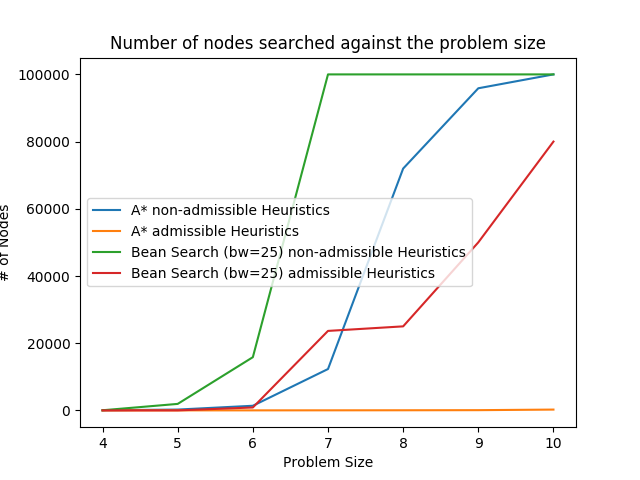
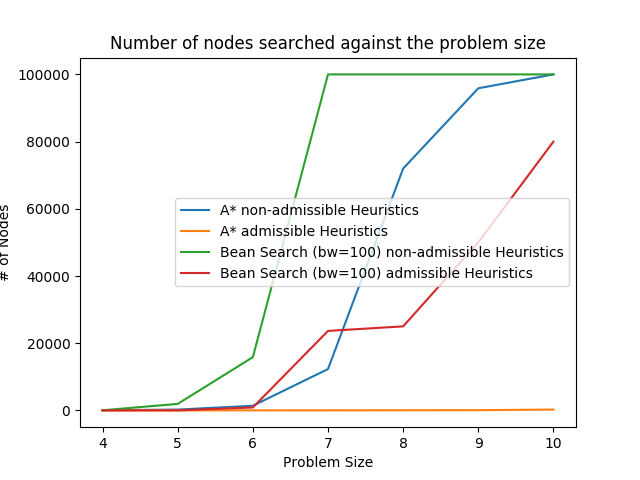
modify cpu plots

Changed region(s): [[0.125, 0.4062, 0.875, 0.5938], [0.7812, 0.4062, 0.8125, 0.4375]]

diff --git a/analysis.py b/analysis.py
@@ -40,8 +40,8 @@ def plotResult(cpuTimes, steps, pathes):
     plt.plot(sizeNums, t0, label="A* non-admissible Heuristics")
     plt.plot(sizeNums, t1, label="A* admissible Heuristics")
 
-    plt.plot(sizeNums, t2, label="Bean Search (bw=25) non-admissible Heuristics")
-    plt.plot(sizeNums, t3, label="Bean Search (bw=25) admissible Heuristics")
+    plt.plot(sizeNums, t2, label="Bean Search (bw=100) non-admissible Heuristics")
+    plt.plot(sizeNums, t3, label="Bean Search (bw=100) admissible Heuristics")
 
     plt.xlabel("Problem Size")
     plt.ylabel("# of Nodes")
@@ -63,8 +63,8 @@ def plotResult(cpuTimes, steps, pathes):
     plt.plot(sizeNums, t0, label="A* non-admissible Heuristics")
     plt.plot(sizeNums, t1, label="A* admissible Heuristics")
 
-    plt.plot(sizeNums, t2, label="Bean Search (bw=25) non-admissible Heuristics")
-    plt.plot(sizeNums, t3, label="Bean Search (bw=25) admissible Heuristics")
+    plt.plot(sizeNums, t2, label="Bean Search (bw=100) non-admissible Heuristics")
+    plt.plot(sizeNums, t3, label="Bean Search (bw=100) admissible Heuristics")
 
     plt.xlabel("Problem Size")
     plt.ylabel("CPU time")
